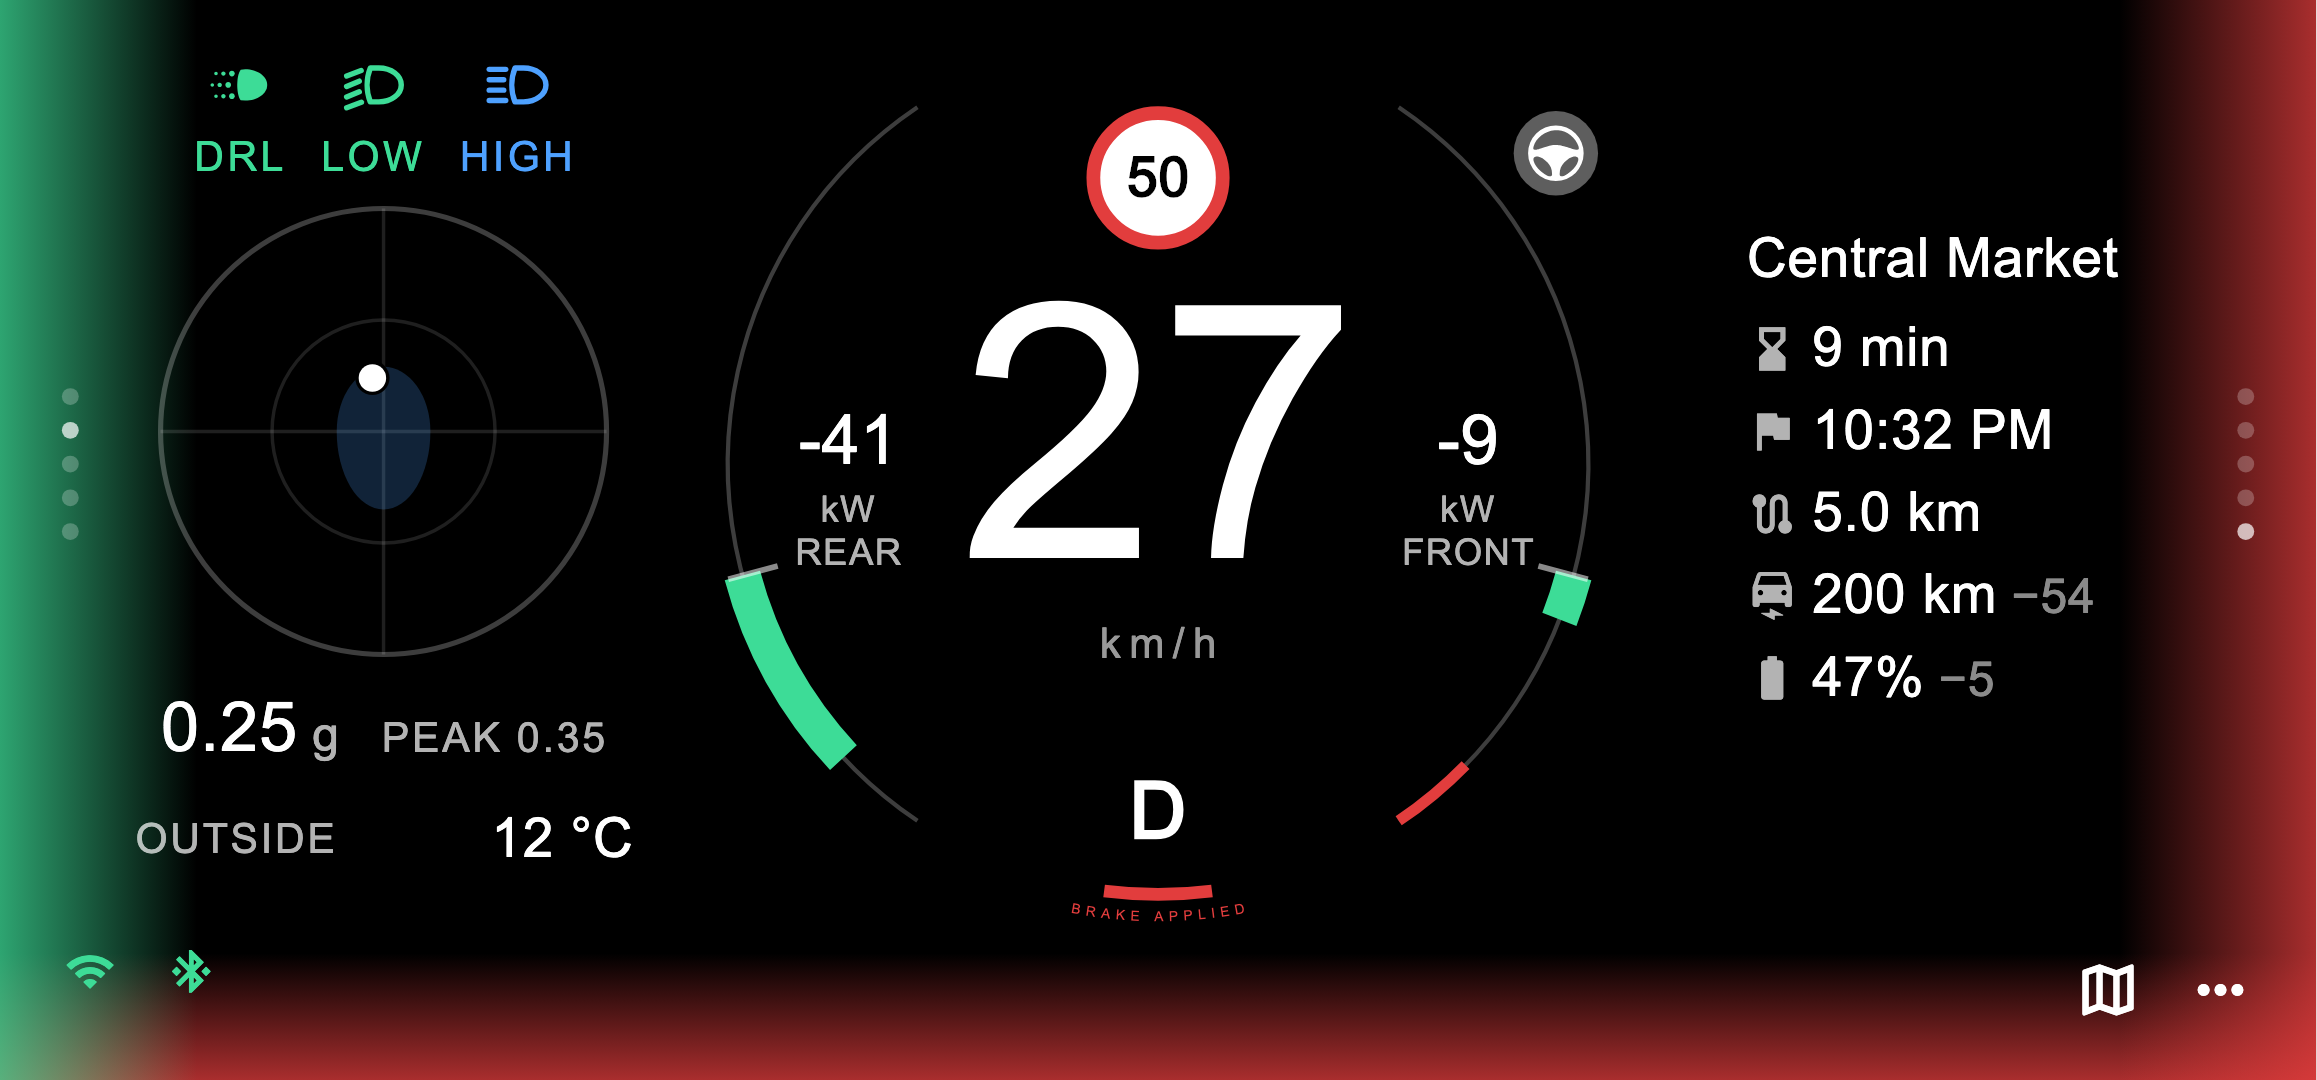
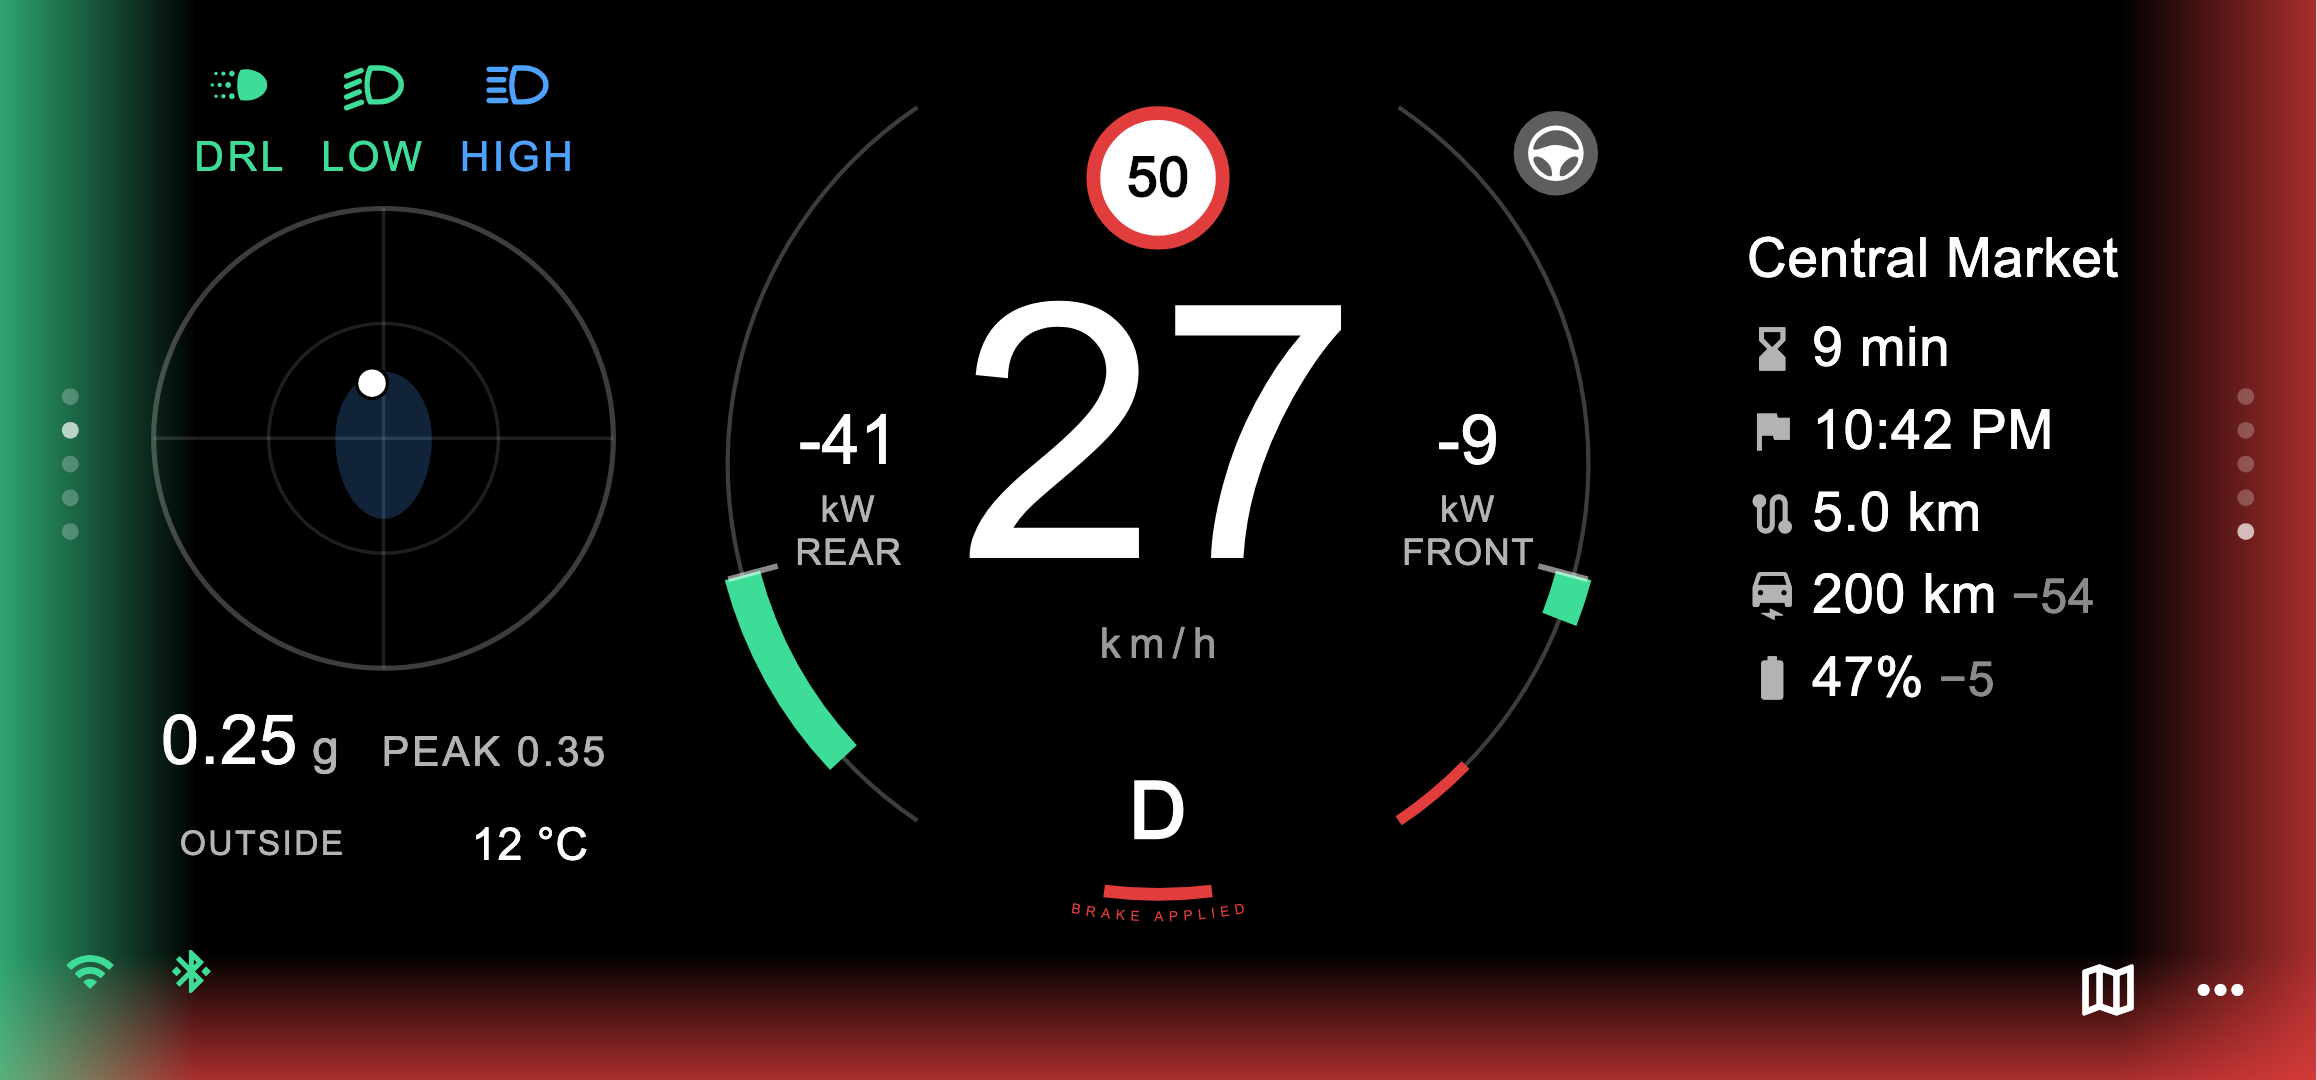
Basic layout: the figures' rows at the full layout's size, not scaled up with the cards

diff --git a/lib/widgets.dart b/lib/widgets.dart
@@ -1149,29 +1149,35 @@ class _GPainter extends CustomPainter {
 /// group, and how far full-pack energy has fallen from the BMS's figure for
 /// it new.
 /// A label and its value, the labels one width so the values line up.
-Widget _statRow(BuildContext context, String label, String value, {Color color = Colors.white}) =>
+/// [size]: over the full layout's (a basic card passes the inverse of its
+/// scale, so its rows come out the full layout's size on screen).
+Widget _statRow(BuildContext context, String label, String value, {Color color = Colors.white, double size = 1}) =>
     Row(mainAxisSize: MainAxisSize.min, children: [
       SizedBox(
-        width: MediaQuery.textScalerOf(context).scale(104), // aligns the values
+        width: MediaQuery.textScalerOf(context).scale(104) * size, // aligns the values
         child: Text(label,
-            maxLines: 1, softWrap: false, style: const TextStyle(fontSize: 12, letterSpacing: 0.8, color: Colors.white70)),
+            maxLines: 1,
+            softWrap: false,
+            style: TextStyle(fontSize: 12 * size, letterSpacing: 0.8 * size, color: Colors.white70)),
       ),
-      Text(value, style: TextStyle(fontSize: 16, color: color, fontFeatures: const [FontFeature.tabularFigures()])),
+      Text(value, style: TextStyle(fontSize: 16 * size, color: color, fontFeatures: const [FontFeature.tabularFigures()])),
     ]);
 
 class _Pack extends StatelessWidget {
-  const _Pack({required this.obd, this.outside = true, this.pack = true, this.minor = true});
+  const _Pack({required this.obd, this.outside = true, this.pack = true, this.minor = true, this.size = 1});
 
   final Panda obd;
   final bool outside, pack; // the air outside (and washer), the pack's health
   final bool minor; // the cell imbalance (a switch in the settings hides it)
+  final double size; // [_statRow]'s
 
   @override
   Widget build(BuildContext context) {
     final o = obd, mv = o.imbalanceMv;
     final kwh = o.packKwh, isNew = o.packNewKwh;
     final out = o.outsideC;
-    Widget row(String label, String value, {Color color = Colors.white}) => _statRow(context, label, value, color: color);
+    Widget row(String label, String value, {Color color = Colors.white}) =>
+        _statRow(context, label, value, color: color, size: size);
     // Shrinks rather than overflows when a large font meets a wide ring.
     return FittedBox(fit: BoxFit.scaleDown, child: Column(crossAxisAlignment: CrossAxisAlignment.start, children: [
       if (outside) ...[
@@ -1703,20 +1709,21 @@ class _Cabin extends StatelessWidget {
 
 /// Basic layout's card of what the pack feeds besides the motors.
 class _Draws extends StatelessWidget {
-  const _Draws({required this.obd, this.minor = true});
+  const _Draws({required this.obd, this.minor = true, this.size = 1});
 
   final Panda obd;
   final bool minor; // 12 V and the rest (a switch in the settings hides them)
+  final double size; // [_statRow]'s
 
   @override
   Widget build(BuildContext context) {
     final o = obd, live = o.wifiLive;
     String kw(double? v) => !live || v == null ? '—' : '${v.toStringAsFixed(1)} kW';
     return Column(mainAxisSize: MainAxisSize.min, crossAxisAlignment: CrossAxisAlignment.start, children: [
-      _statRow(context, 'CLIMATE', kw(o.climateKw)),
+      _statRow(context, 'CLIMATE', kw(o.climateKw), size: size),
       if (minor) ...[
-        _statRow(context, '12 V', kw(o.lvKw)),
-        _statRow(context, 'OTHER', kw(o.otherKw)),
+        _statRow(context, '12 V', kw(o.lvKw), size: size),
+        _statRow(context, 'OTHER', kw(o.otherKw), size: size),
       ],
     ]);
   }
@@ -1725,17 +1732,18 @@ class _Draws extends StatelessWidget {
 /// While charging: to what % and by when, as the nav puts a route.
 /// WiFi only.
 class _Charge extends StatelessWidget {
-  const _Charge({required this.obd, this.oneLine = false});
+  const _Charge({required this.obd, this.oneLine = false, this.size = 1});
 
   final Panda obd;
   final bool oneLine; // the compact dash: one row under the ring
+  final double size; // over the full layout's, as [_statRow]'s
 
   @override
   Widget build(BuildContext context) {
     final o = obd;
     if (!o.wifiLive || !o.charging) return const SizedBox.shrink();
-    const big = TextStyle(
-        fontSize: 18, color: Colors.white, fontFeatures: [FontFeature.tabularFigures()]);
+    final big = TextStyle(
+        fontSize: 18 * size, color: Colors.white, fontFeatures: const [FontFeature.tabularFigures()]);
     final pct = o.chargeLimitPct, m = o.chargeMinutes;
     final to = pct == null ? null : 'to $pct %';
     final when = m == null
@@ -1749,9 +1757,9 @@ class _Charge extends StatelessWidget {
           child: Text([?to, ?when].join('   '), style: big));
     }
     return Column(crossAxisAlignment: CrossAxisAlignment.start, children: [
-      const Text('CHARGE',
-          style: TextStyle(fontSize: 12, letterSpacing: 1.5, color: Colors.white70)),
-      const SizedBox(height: 2),
+      Text('CHARGE',
+          style: TextStyle(fontSize: 12 * size, letterSpacing: 1.5 * size, color: Colors.white70)),
+      SizedBox(height: 2 * size),
       if (to != null) Text(to, style: big),
       if (when != null) FittedBox(fit: BoxFit.scaleDown, child: Text(when, style: big)),
     ]);

diff --git a/lib/main.dart b/lib/main.dart
@@ -1013,6 +1013,9 @@ class _DashPageState extends State<DashPage> {
   /// the route. Both stacks hold every card, so either side shows any; each
   /// side's card is kept. The assist state is at the ring's top right.
   Widget _basicRow(Panda o) {
+    // The figures' rows (label and value) as on the full layout's screen,
+    // not scaled up with the rest: next to the ring they read as notes.
+    const small = 1 / _CardsState._scale;
     List<Widget> cards() => [
           Column(children: [
             // The dial as big on screen as in the full layout: next to the
@@ -1022,8 +1025,8 @@ class _DashPageState extends State<DashPage> {
             // The draws and the pack's health in one column, the values lined
             // up; all of them here, whatever the full layout's switch says.
             Column(mainAxisSize: MainAxisSize.min, crossAxisAlignment: CrossAxisAlignment.start, children: [
-              if (o.wifiLive && o.charging) _Charge(obd: o) else _Draws(obd: o),
-              _Pack(obd: o, outside: false),
+              if (o.wifiLive && o.charging) _Charge(obd: o, size: small) else _Draws(obd: o, size: small),
+              _Pack(obd: o, outside: false, size: small),
             ]),
           ]),
           Column(children: [
@@ -1034,7 +1037,7 @@ class _DashPageState extends State<DashPage> {
             Expanded(child: ListenableBuilder(listenable: o.fast, builder: (context, _) => _GBall(obd: o, tall: true))),
             const SizedBox(height: 6),
             // The air outside.
-            _Pack(obd: o, pack: false),
+            _Pack(obd: o, pack: false, size: small),
           ]),
           // The car as big as the card allows, under a little room for its
           // beams (drawn shorter here, so the low beam shows whole), its

diff --git a/test/dash_shot_test.dart b/test/dash_shot_test.dart
@@ -364,6 +364,7 @@ void main() {
     expect(find.text('IMBALANCE'), findsOneWidget);
     expect(find.text('Central Market'), findsNothing);
     final basicPct = t.getRect(find.text('52%', findRichText: true)).height;
+    final basicRow = t.getRect(find.text('DEGRADATION')).height;
     expect(o.skip, basicSkip(0, 3)); // only what the ring and these two cards read
     // The assist state at the ring's top right, whichever cards show.
     final ring = t.getRect(find.byType(RingGauge));
@@ -396,10 +397,12 @@ void main() {
     expect(t.getRect(find.image(const AssetImage('assets/car/car.png'))).height, greaterThan(255));
     expect(t.getRect(find.text('38').first).height, greaterThan(19));
     await shot('basic-3');
-    // The battery dial as big on screen as in the full layout.
+    // The battery dial and the figures' rows as big on screen as in the full
+    // layout: not scaled up with the rest of the card.
     await t.pumpWidget(MaterialApp(theme: kTheme, home: DashPage(demo: o, bt: Commander())));
     await t.pump(const Duration(milliseconds: 300));
     expect(t.getRect(find.text('52%', findRichText: true)).height, closeTo(basicPct, 0.5));
+    expect(t.getRect(find.text('DEGRADATION')).height, closeTo(basicRow, 0.5));
     await t.pumpWidget(const SizedBox());
   });
 
